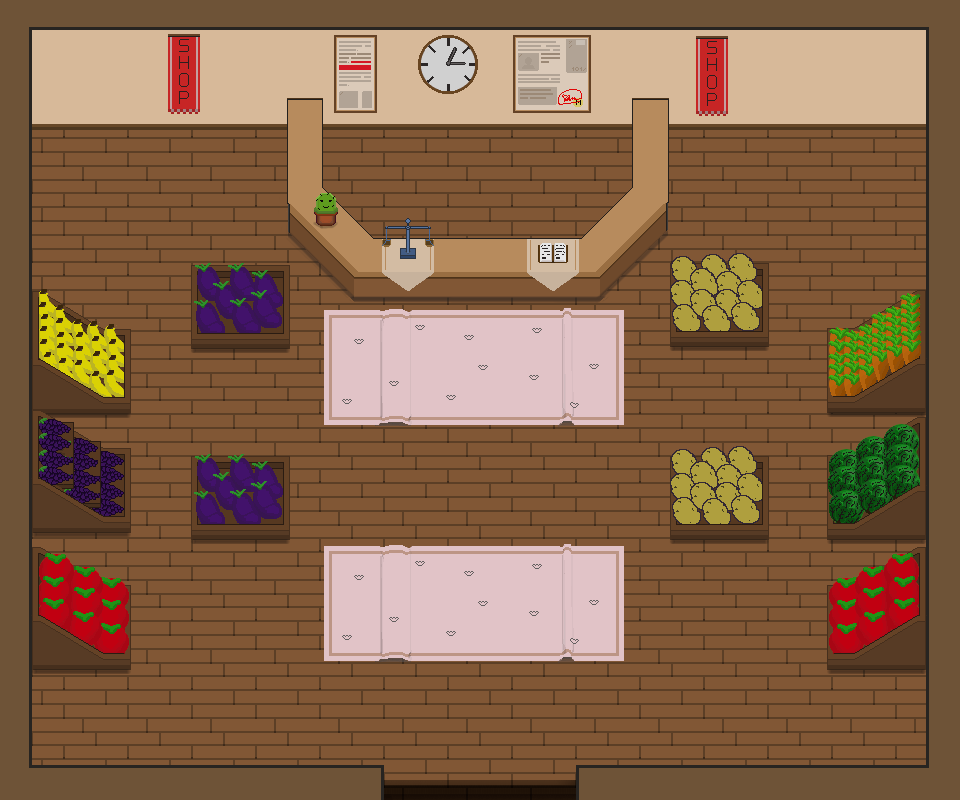
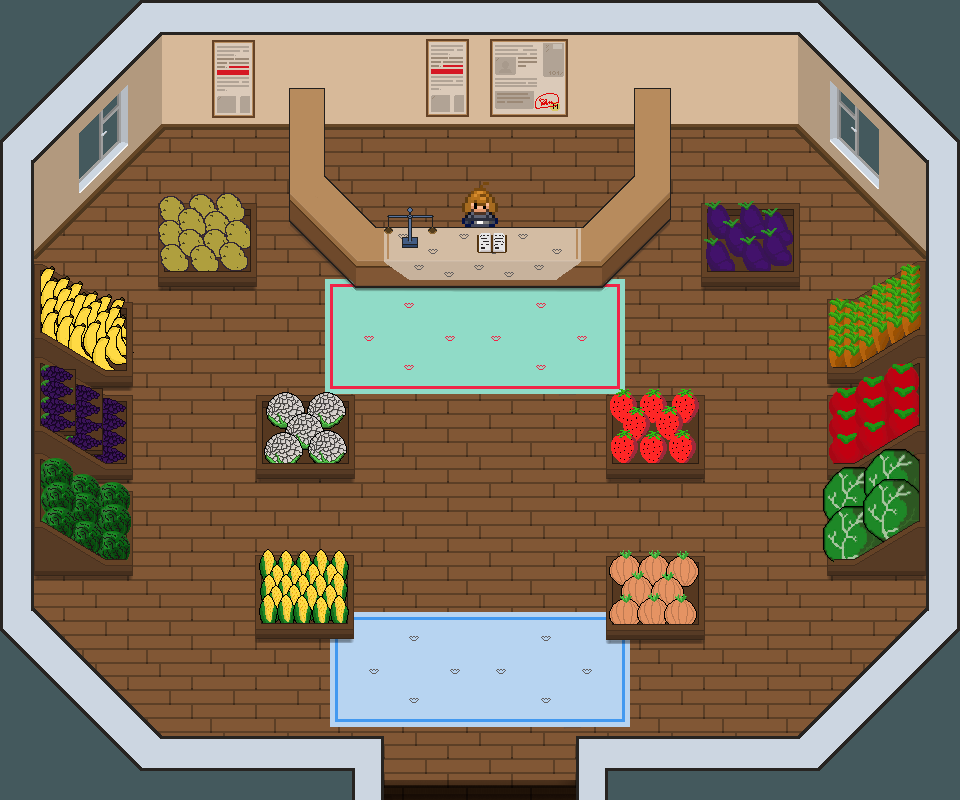
Update shop, zones, add goods

diff --git a/include/definitions.hpp b/include/definitions.hpp
@@ -8,7 +8,7 @@ enum class Screens : int {no_screen = -1, start, settings, load, game, size};
 enum class Align {top_left, top_right, bottom_left, bottom_right, center};
 enum class Tiles {
     no_tile = -4, obstacle, spawn, buy, // special tiles
-    lettuce, carrot, tomato, eggplant, potato, grape, banana, foodTilesSize // food tiles 
+    lettuce, carrot, tomato, eggplant, potato, grape, banana, watermellon, corn, onion, strawberrie, cauliflower, foodTilesSize // food tiles 
 };
 enum class GameSpeed {stop, slow, fast, very_fast, skip, size};
 
@@ -17,14 +17,14 @@ enum class GameSpeed {stop, slow, fast, very_fast, skip, size};
 
 // Tiles types
 #define ZONES_MAP               "./assets/files/ZonesMap.txt"
-#define WORLD_X                 50.f
-#define WORLD_Y                 100.f
+#define WORLD_X                 480.f
+#define WORLD_Y                 112.f
 #define WORLD_WIDTH             30
 #define WORLD_HEIGHT            25
 #define TILE_SIZE               32
 
 // Textures
-#define START_SCREEN_BACKGROUND "./assets/images/Start_screen_bg.jpeg"
+#define START_SCREEN_BACKGROUND "./assets/images/Start_screen.png"
 #define GAME_FIELD_BACKGROUND   "./assets/images/Shop.png"
 
 enum class BotTurn  {down, left, right, up};

diff --git a/src/gameLogick/ControlPanel.cpp b/src/gameLogick/ControlPanel.cpp
@@ -33,7 +33,7 @@ ControlPanel::ControlPanel() {
     float discontVal = 0.f;
     GameField::setDiscont(discontVal);
     discontBar = ScrollBar(
-        bg.getPosition() + sf::Vector2f(110.f, 250.f), {500.f, 20.f}, 25, (int)discontVal,
+        bg.getPosition() + sf::Vector2f(110.f, 250.f), {600.f, 20.f}, 25, (int)discontVal,
         sf::Color::Transparent, sf::Color::White, 1, sf::Color::White, sf::Color::White
         ); 
 

diff --git a/src/gameLogick/GameScreen.cpp b/src/gameLogick/GameScreen.cpp
@@ -4,7 +4,7 @@ GameScreen::GameScreen(sf::RenderWindow &wnd, Screens& screenState) : Screen(wnd
     sf::Vector2f wndSize = sf::Vector2f(wnd.getSize());
     
     background = sf::RectangleShape(wndSize);
-    background.setFillColor(sf::Color(39,39,39,1)); // dark gray
+    background.setFillColor(sf::Color(68,89,93)); // dark gray
 
     resize(wndSize);
 }

diff --git a/src/Launcher.cpp b/src/Launcher.cpp
@@ -29,7 +29,7 @@ int main() {
     loadAllReferences();
 
     sf::Clock deltaClock;
-    srand(static_cast<unsigned int>(sf::Time().asMilliseconds()));  // set rand seed
+    srand(time(0));  // set rand seed
 
     Screens screenState = Screens::start;
     StartScreen startScreen(wnd, screenState);

diff --git a/include/dep.hpp b/include/dep.hpp
@@ -9,9 +9,9 @@
 #include <string>
 #include <math.h>
 #include <vector>
-#include <stack>
 #include <queue>
 #include <random>
+#include <time.h>
 #include <map>
 
 #include "definitions.hpp"
